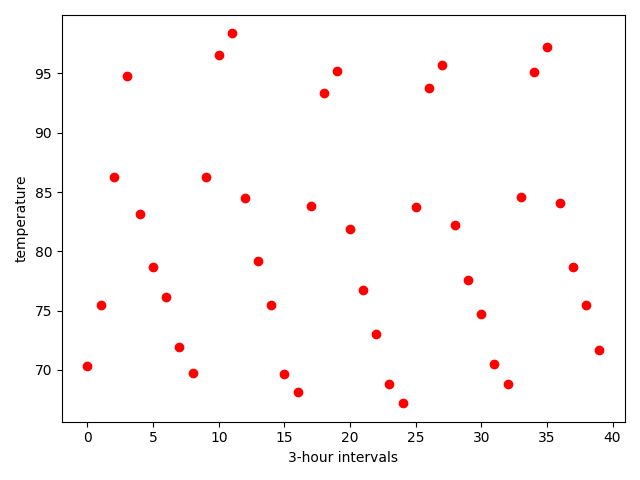
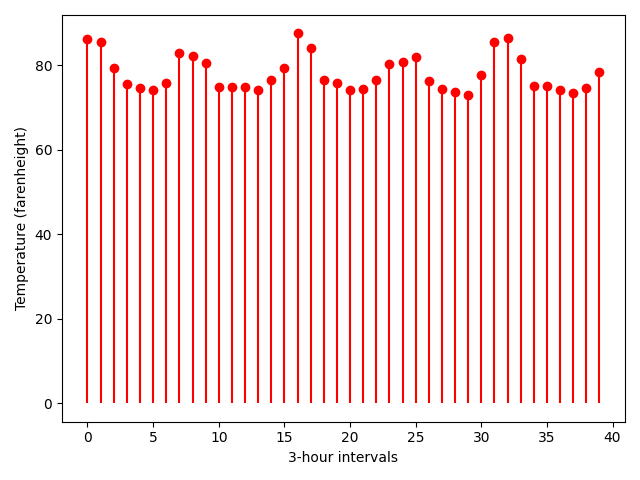
updated plots

diff --git a/app/plot.py b/app/plot.py
@@ -9,9 +9,9 @@ def forecast():
     for row in a:
         x = row[0]
         y = row[4]
-        plt.plot(x,y,'ro-')
+        plt.stem(x,y,'ro')
     plt.xlabel("3-hour intervals")
-    plt.ylabel("temperature")
+    plt.ylabel("Temperature (farenheight)")
     plt.tight_layout()
     plt.savefig('static/goo.png')
 
@@ -21,9 +21,9 @@ def humidity():
     for row in a:
         x = row[0]
         y = row[5]
-        plt.plot(x,y,'bo-')
+        plt.stem(x,y,'bo')
     plt.xlabel("3-hour intervals")
-    plt.ylabel("humidity")
+    plt.ylabel("Humidity")
     plt.tight_layout()
     plt.savefig('static/foo.png')
 
@@ -33,8 +33,8 @@ def percipitation():
     for row in a:
         x = row[0]
         y = row[7]
-        plt.plot(x,y,'go-')
+        plt.stem(x,y,'go')
     plt.xlabel("3-hour intervals")
-    plt.ylabel("humidity")
+    plt.ylabel("Percipitations (inches)")
     plt.tight_layout()
     plt.savefig('static/boo.png')

diff --git a/app/__init__.py b/app/__init__.py
@@ -95,7 +95,7 @@ def entry():
             session['place'] = city_detail[0]['name']
             session['lat'] = float(city_detail[0]['lat'])
             session['lon'] = float(city_detail[0]['lon'])
-            return render_template("home.html", username = session['username'], place = session['place'])
+            return redirect("/")
         else:
             #if there are multiple cities with same name
             all_city = ""
